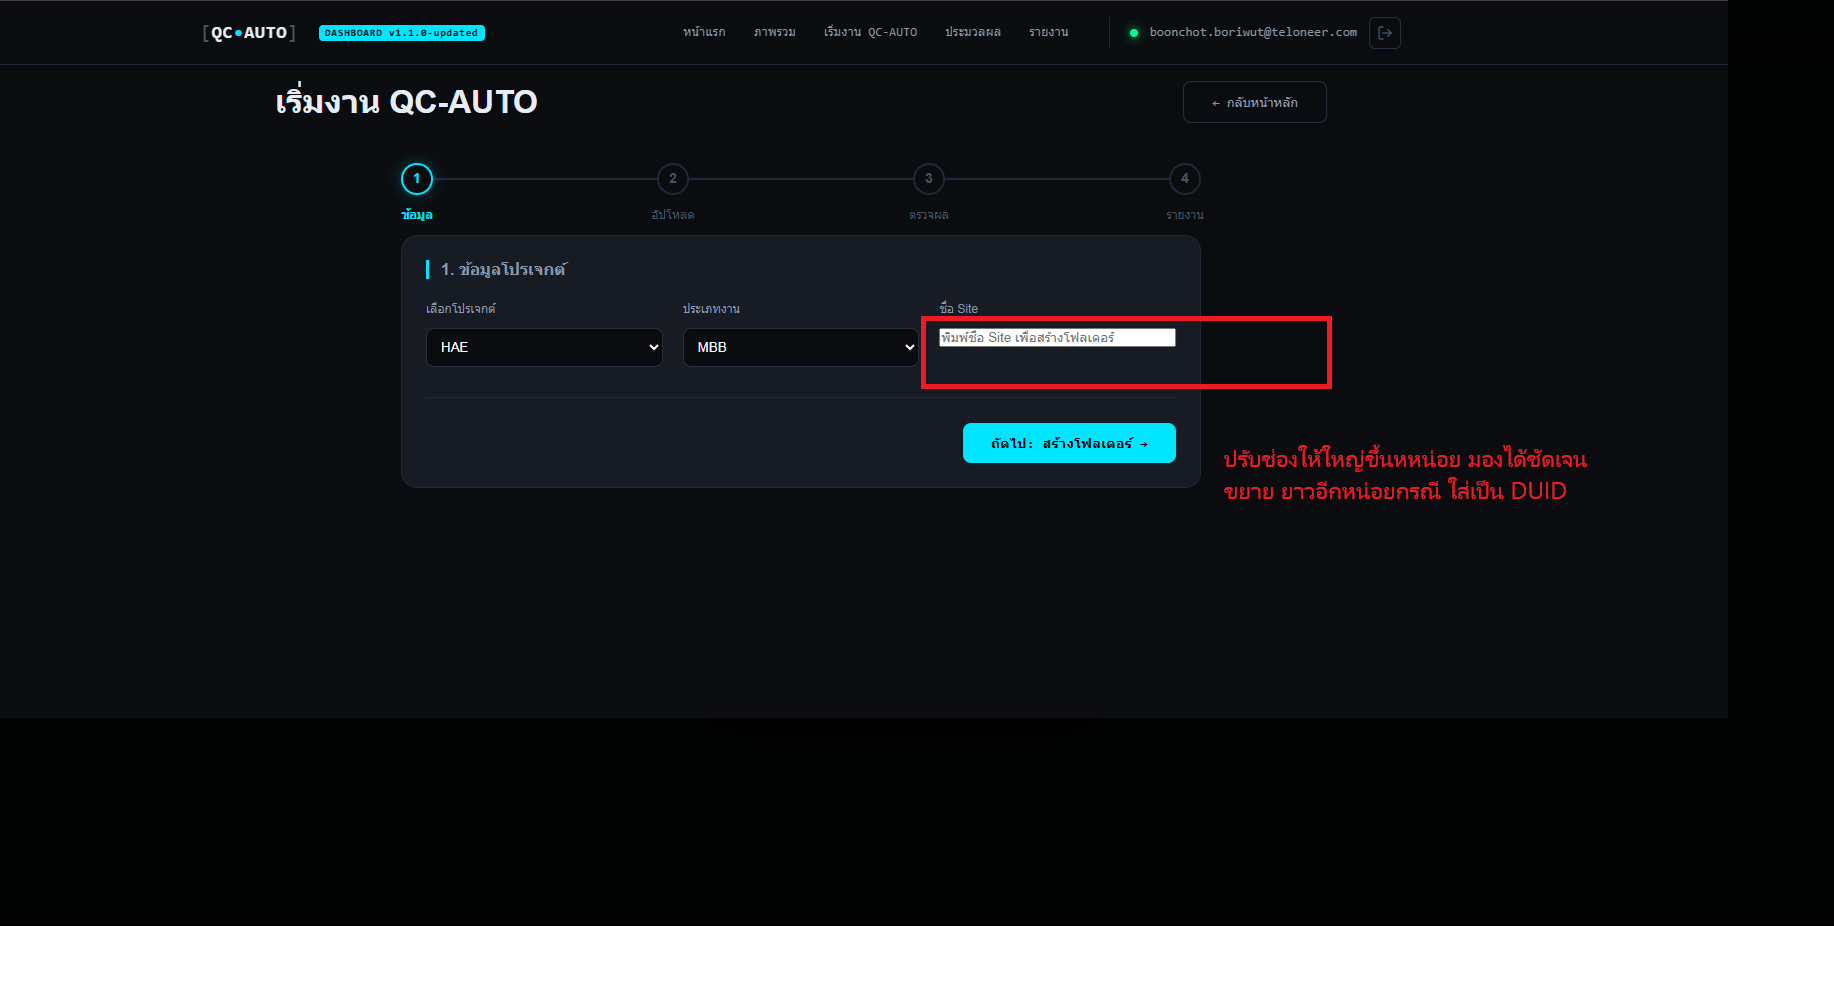
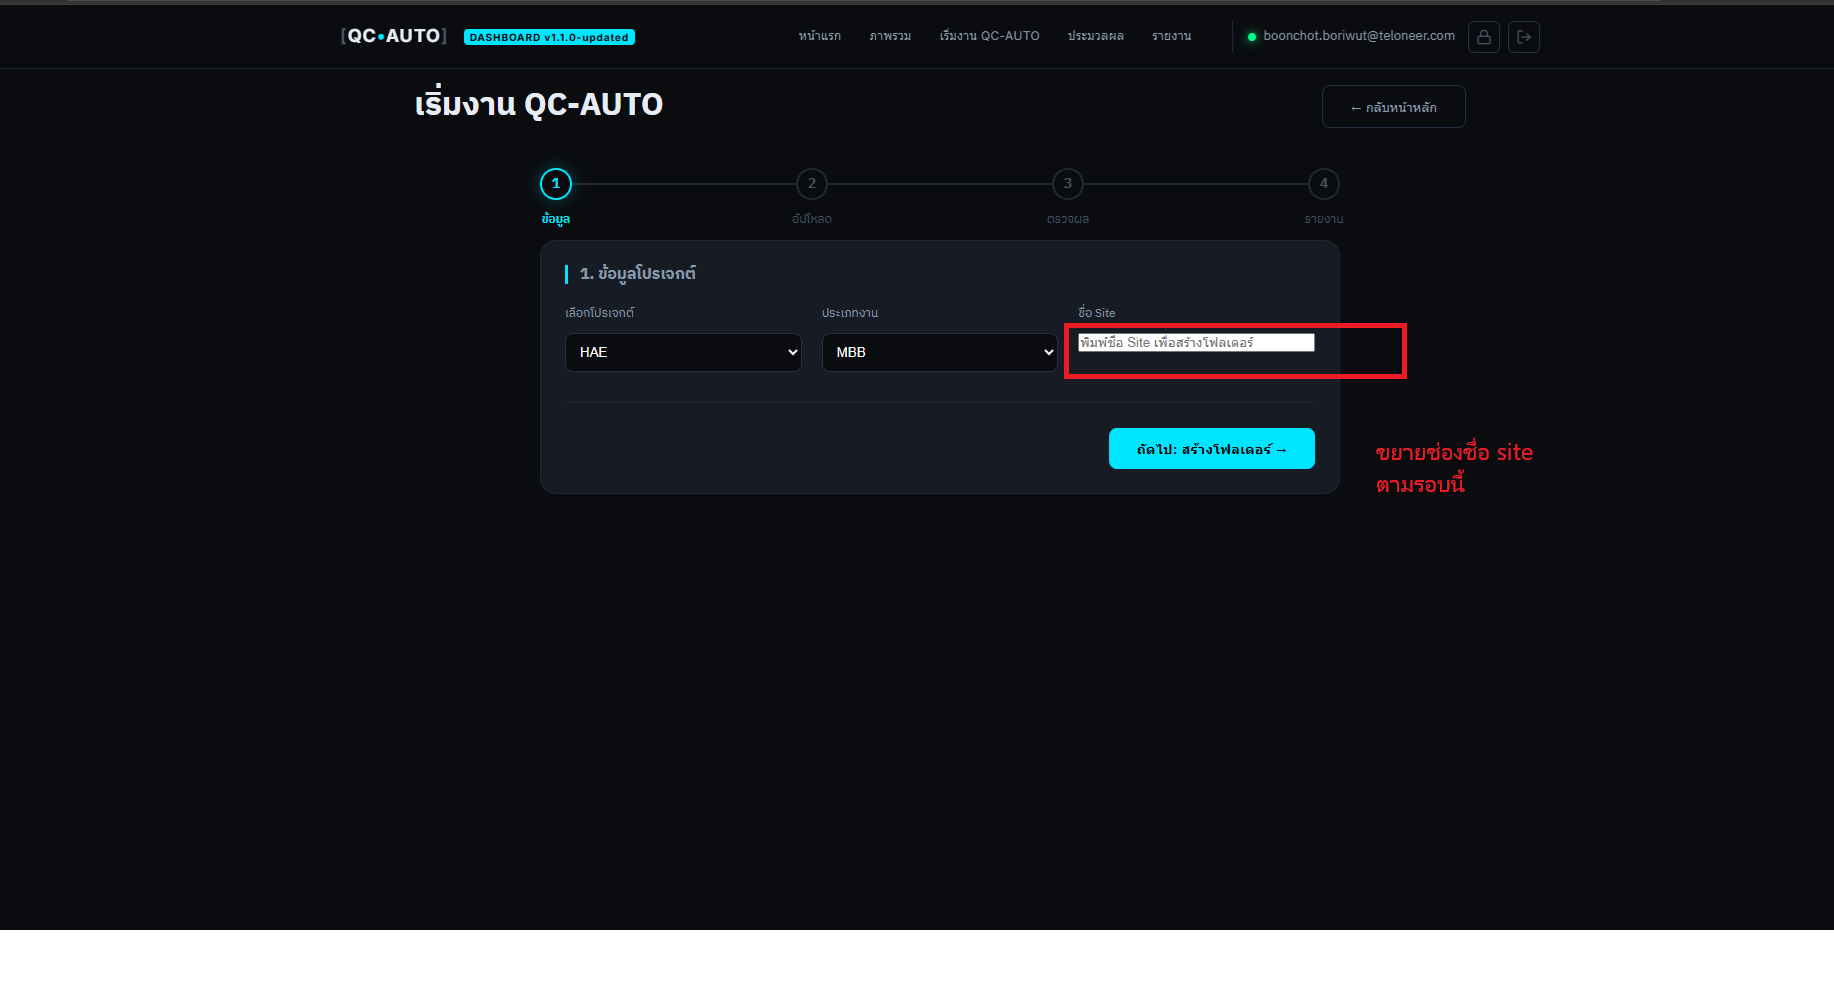
style: finalize dashboard input visibility and sync all assets

diff --git a/5.New QC Automate/dashboard-style.css b/5.New QC Automate/dashboard-style.css
@@ -45,12 +45,21 @@
 .auth-card input {
   background: var(--bg);
   border: 1px solid var(--border2);
-  padding: 14px;
+  padding: 14px 16px;
   border-radius: var(--radius);
   color: #fff;
-  text-align: center;
-  font-size: 18px;
-  letter-spacing: 0.2em;
+  text-align: left;
+  font-size: 15px;
+  letter-spacing: normal;
+  transition: all 0.2s;
+  width: 100%;
+}
+
+.auth-card input:focus {
+  border-color: var(--accent);
+  background: var(--bg2);
+  outline: none;
+  box-shadow: 0 0 0 3px rgba(0, 229, 255, 0.1);
 }
 
 .error-text { color: var(--red); font-size: 13px; margin-top: 15px; }
@@ -147,13 +156,27 @@
   padding-top: 20px;
 }
 .control-group { flex: 1; display: flex; flex-direction: column; gap: 8px; }
-.control-group label { font-size: 12px; color: var(--text2); }
+.control-group label { font-size: 13px; color: var(--text2); font-weight: 600; margin-bottom: 2px; }
+
+.control-group input,
 .control-group select {
   background: var(--bg);
   border: 1px solid var(--border2);
   color: #fff;
-  padding: 10px;
+  padding: 14px 16px;
   border-radius: var(--radius);
+  font-size: 16px;
+  width: 100%;
+  transition: all 0.2s;
+  font-family: var(--font-body);
+}
+
+.control-group input:focus,
+.control-group select:focus {
+  border-color: var(--accent);
+  background: var(--bg2);
+  outline: none;
+  box-shadow: 0 0 0 3px rgba(0, 229, 255, 0.1);
 }
 
 .file-table-wrapper {
@@ -497,8 +520,14 @@ td { padding: 12px; font-size: 14px; border-bottom: 1px solid var(--border); }
   font-size: 15px;
 }
 
+.auth-card .btn-primary {
+  width: 100%;
+  margin-top: 5px;
+  padding: 14px;
+}
+
 .auth-footer {
-  margin-top: 20px;
+  margin-top: 15px;
   display: flex;
   justify-content: center;
   gap: 20px;
@@ -548,8 +577,16 @@ td { padding: 12px; font-size: 14px; border-bottom: 1px solid var(--border); }
 .input-icon {
   position: absolute;
   left: 15px;
-  color: var(--text3);
+  color: var(--accent);
+  opacity: 0.7;
   pointer-events: none;
+  transition: all 0.2s;
+}
+
+.input-wrapper:focus-within .input-icon,
+.password-wrapper:focus-within .input-icon {
+  opacity: 1;
+  transform: scale(1.1);
 }
 
 .toggle-password {